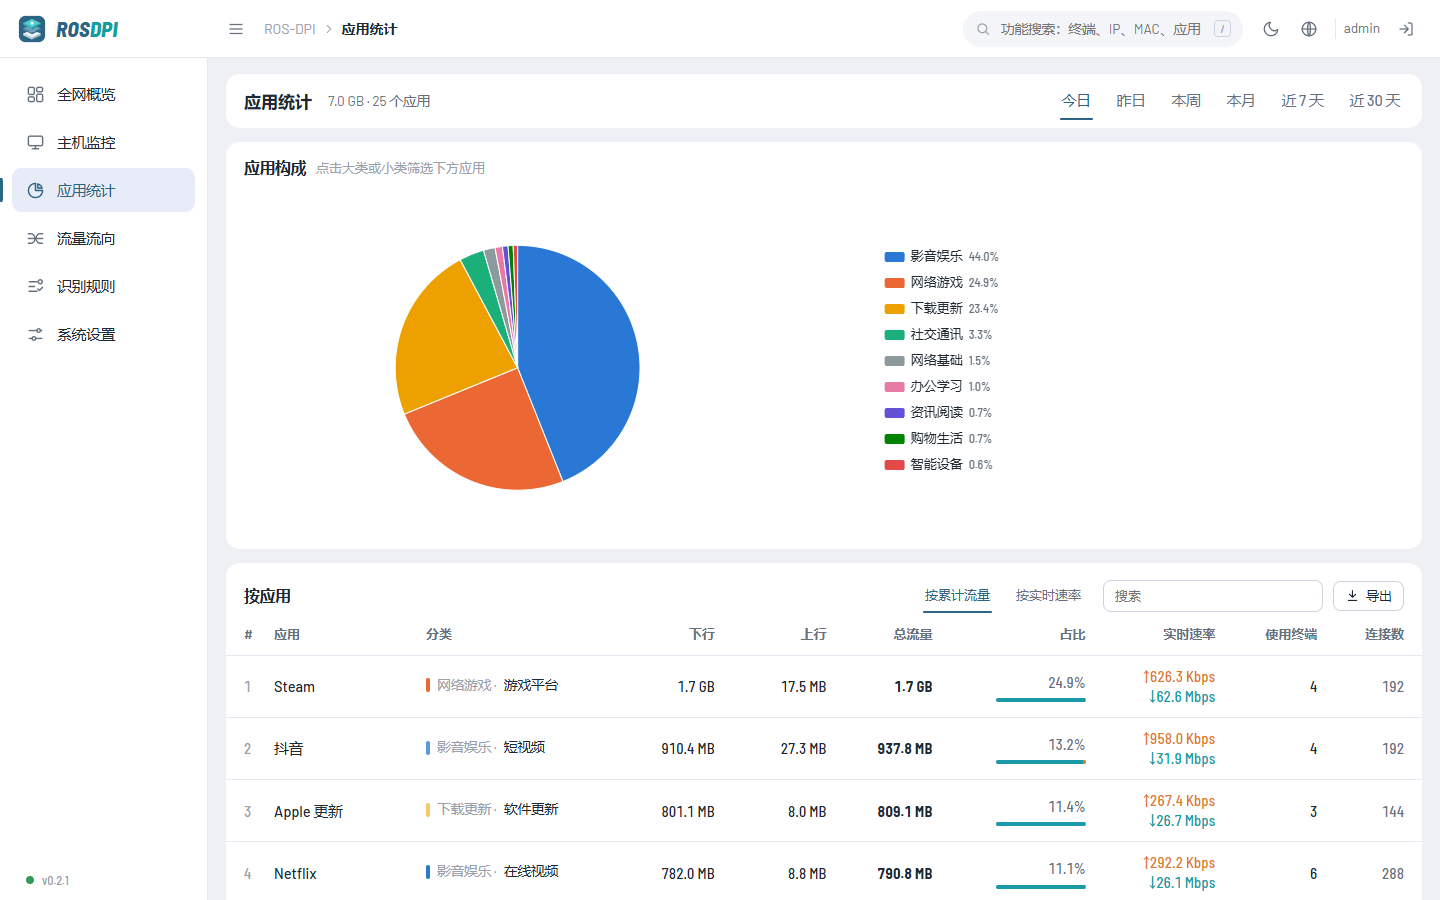
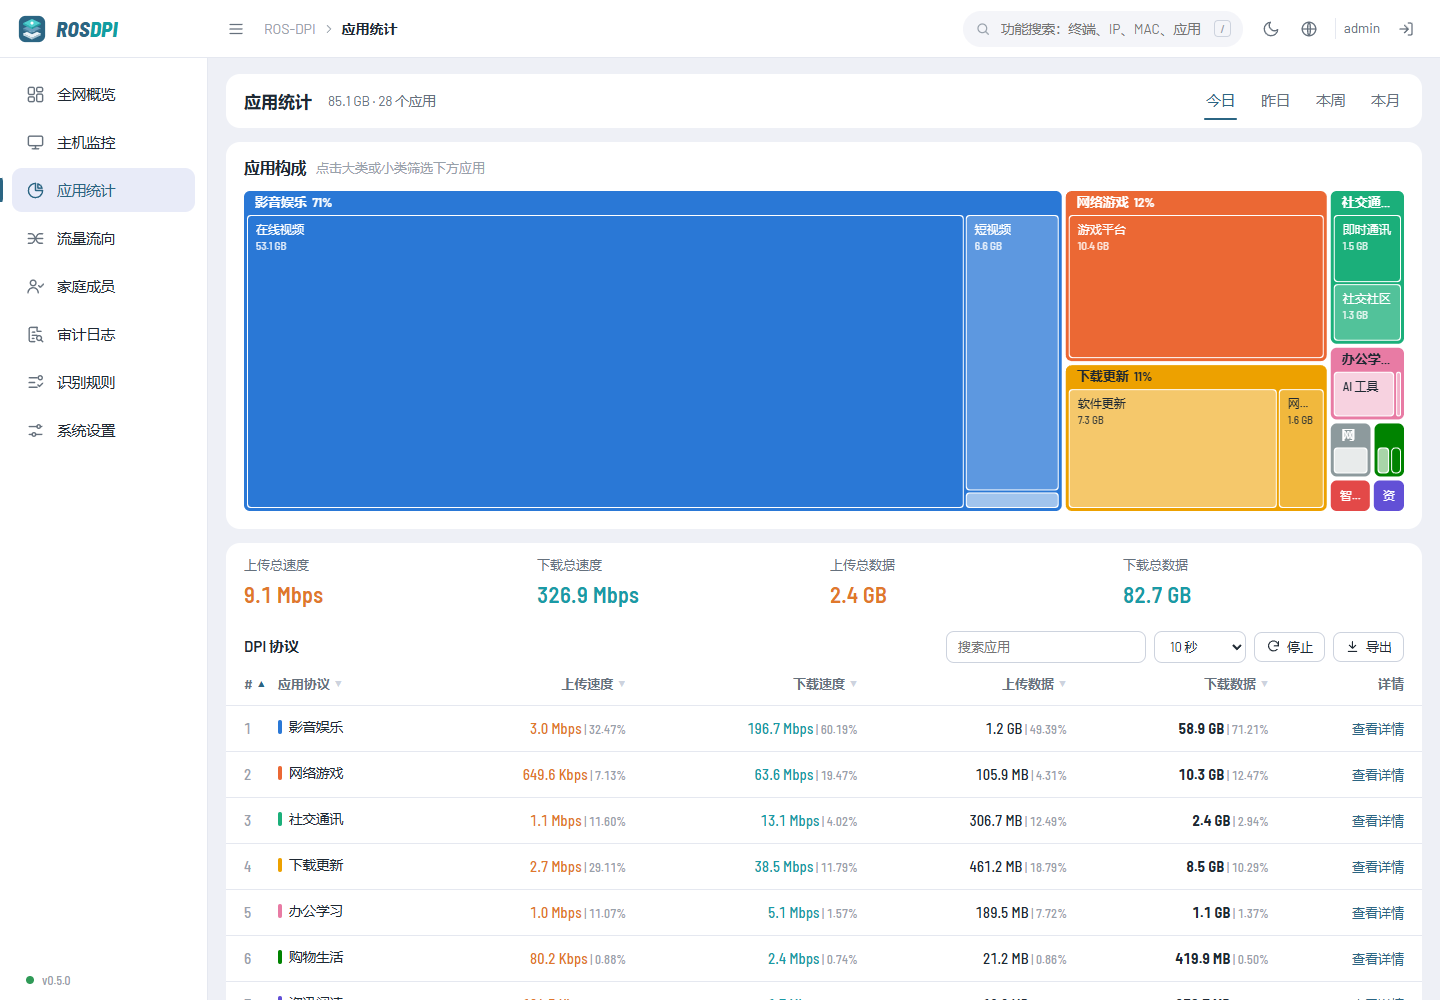
docs: README / Docker Hub 说明更新到 0.5.0
- 功能列表按导航顺序重写：家庭成员 / 人员、使用场景、审计（外发、私接、13 种通知渠道）、管控命令、日志与留存、用户管理
- 改正过时的设置路径（接入与自检、网络与账号、运行状态里的 DNS 应答来源）
- 时间范围改为 今日 / 昨日 / 本周 / 本月；概览是饼图不是环图
- 识别库补上 MAC 厂商库，注明世界地图数据来源（Natural Earth）
- 忘记管理员密码的处理说明（现在有多个账号）
- 首次使用后的步骤：选场景、分配设备、配置通知
- 截图换成 0.5.0 界面，新增家庭成员页截图

diff --git a/DOCKERHUB.md b/DOCKERHUB.md
@@ -1,8 +1,8 @@
 # ROS-DPI
 
-RouterOS 终端流量与应用统计面板。按 今日 / 本周 / 本月 统计每台终端的流量和应用使用情况，类似 Panabit / 碧海威。
+RouterOS 终端流量、应用统计与上网审计面板。按 今日 / 昨日 / 本周 / 本月 统计每台终端、每个人的流量和应用使用情况（类似 Panabit / 维盟），记录访问日志并按规则告警（参照深信服 AC）；分家用和企业两种场景。
 
-Per-device traffic and per-application (DPI-style) statistics for MikroTik RouterOS, built on IPFIX + DNS sniffing.
+Per-device and per-person traffic, per-application (DPI-style) statistics and access auditing for MikroTik RouterOS, built on IPFIX + DNS / SNI sniffing.
 
 Source & docs: https://github.com/suyijun8182/ros-dpi
 
@@ -86,7 +86,8 @@ Open `http://<host>:8080`. The setup wizard has two steps. 打开网页后按两
 
 - Change database later: delete `./data/db_config.json` and restart. 更换数据库：删除该文件后重启容器。
 - Setting `DATABASE_URL` skips the wizard. 设置环境变量 `DATABASE_URL` 可跳过向导。
-- RouterOS commands: **Settings → Setup guide**. Full guide: https://github.com/suyijun8182/ros-dpi
+- RouterOS commands: **Settings → Setup & check / 系统设置 → 接入与自检**. Full guide: https://github.com/suyijun8182/ros-dpi
+- Then choose the scenario under **People → Settings**, assign devices to people, and set up notifications under **Audit → Notifications**. 之后在 家庭成员 / 人员 → 分析设置 选择场景，把设备分给成员，在 审计日志 → 通知渠道 配置推送。
 
 ## Ports
 
